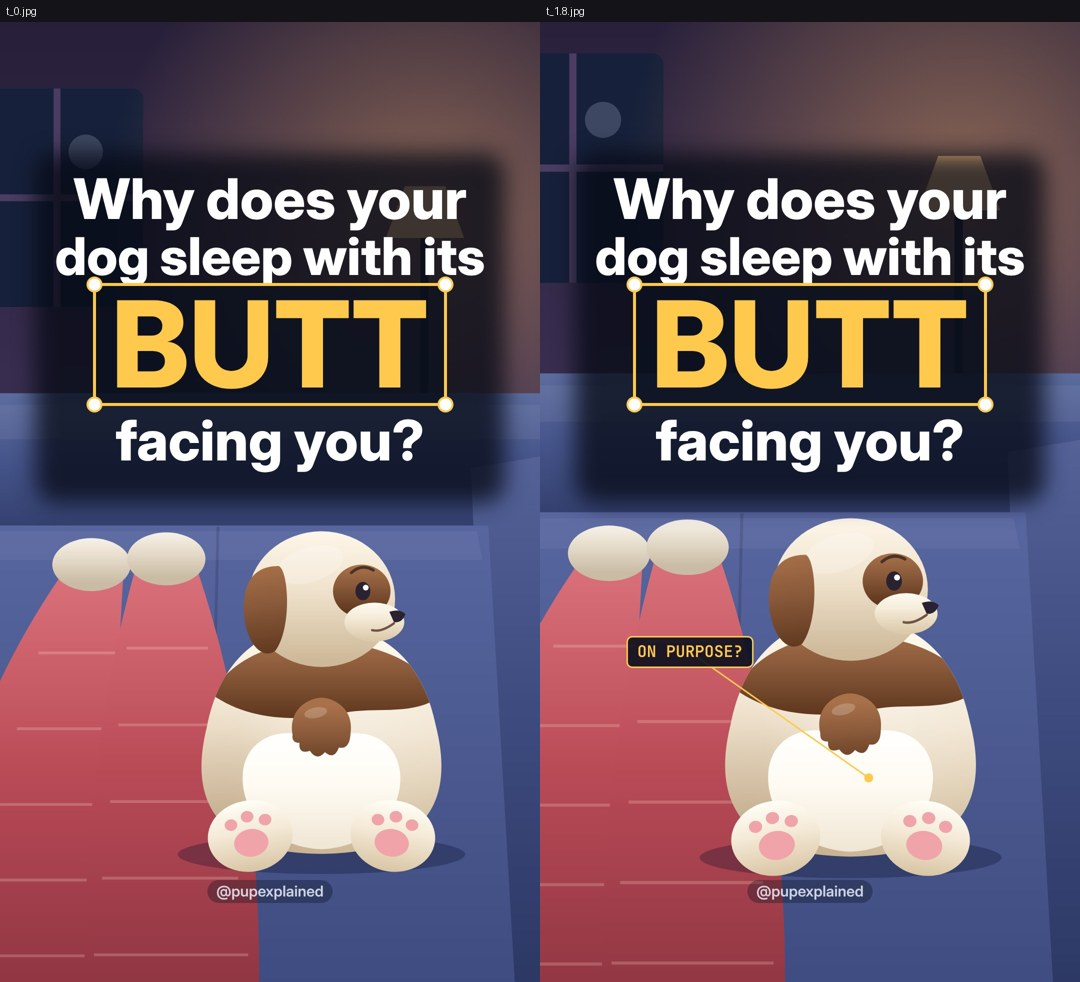
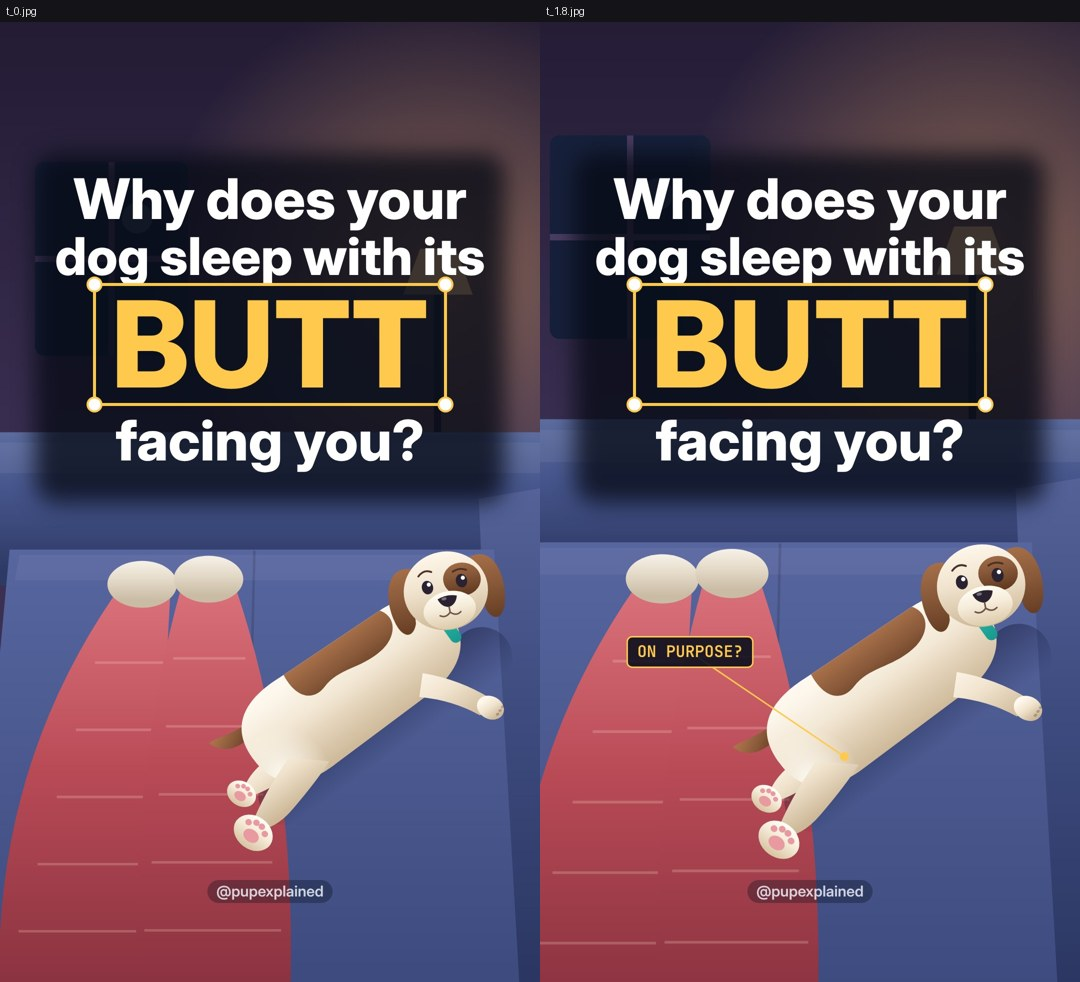
dog-sleep-back: dog redrawn after the user's second reference (stretched out on a diagonal, hind paw splayed back, head turned back to camera); approval frame, films not rebuilt yet
Claude-Session: https://claude.ai/code/session_01GLiioJ71vUy4Fu2rAWkzor

diff --git a/dog-sleep-back/art.js b/dog-sleep-back/art.js
@@ -407,74 +407,56 @@ export function puff(x, y, k) {
   const r = 30 + 60 * k; for (const [dx, dy, s] of [[0, 0, 1], [-.7, .3, .7], [.7, .35, .75], [.2, -.5, .65]]) { ell(x + dx * r, y - 160 * k + dy * r, r * s, r * s * .85); g.fill(); }
   g.restore();
 }
-// the star dog seen from behind, sitting low on the couch (shape language after a classic "dog butt" illustration, drawn in
-// the Pet Cam kit): one chubby rounded body, a white heart-shaped butt patch with a fluffy tail tuft in its notch, two big
-// hind paws sticking out with pink pads, the round back of the head with the floppy brown ears, the brown saddle; the muzzle,
-// the brown eye patch and one eye peek round the right side of the head when it looks back at you.
-// (x, y) = the middle of the body. o = { blink, brow, perk, wag, breath, turn (0 = back of the head, 1 = peeking back) }
+// the star dog lying stretched out on the couch, seen from above (after the user's reference: a long dog lying on a
+// diagonal, back leg splayed behind with the pad showing). Drawn along a local axis (rump at 0, head end at +x, back edge
+// at -y) and rotated by `ang`, so its butt is nearest the camera and its head at the far end, turned back to look at you.
+// (x, y) = the middle of the rump. o = { ang, blink, brow, perk, wag, breath, turn (0..1: 1 = looking back at you) }
 export function rearDog(x, y, o = {}) {
-  const { blink = 0, brow = .5, perk = 0, wag = 0, breath = 0, turn = 1 } = o;
-  const B = BREEDS.cream, k = 1 + breath * .012;
-  g.save(); g.translate(x, y);
-  g.fillStyle = 'rgba(10,14,40,.3)'; ell(0, 182, 250, 34); g.fill();   // flat shadow on the cushion
-  // body: one rounded shape, wider at the hips
-  g.save(); g.scale(k, k);
-  const body = () => { g.beginPath(); g.moveTo(0, -215); g.bezierCurveTo(120, -215, 178, -140, 198, -40); g.bezierCurveTo(228, 80, 192, 178, 0, 180); g.bezierCurveTo(-192, 178, -228, 80, -198, -40); g.bezierCurveTo(-178, -140, -120, -215, 0, -215); g.closePath(); };
-  g.fillStyle = shade(-215, 180, B.coat); body(); g.fill();
-  g.save(); body(); g.clip();
-  const hl = g.createRadialGradient(70, -90, 10, 70, -90, 230); hl.addColorStop(0, 'rgba(255,255,255,.32)'); hl.addColorStop(1, 'rgba(255,255,255,0)'); g.fillStyle = hl; g.fillRect(-240, -220, 480, 400);
-  const sd = g.createRadialGradient(-170, 120, 10, -170, 120, 220); sd.addColorStop(0, 'rgba(140,105,70,.22)'); sd.addColorStop(1, 'rgba(140,105,70,0)'); g.fillStyle = sd; g.fillRect(-240, -220, 480, 400);
-  // the brown saddle across the shoulders
-  g.fillStyle = shade(-200, -60, B.patch);
-  g.beginPath(); g.moveTo(-190, -96); g.bezierCurveTo(-150, -170, -50, -196, 30, -186); g.bezierCurveTo(130, -176, 196, -130, 196, -86); g.bezierCurveTo(150, -60, 90, -74, 40, -64); g.bezierCurveTo(-30, -50, -120, -46, -190, -96); g.closePath(); g.fill();
-  // the white butt patch: a heart, lobes up around the tail, rounded at the bottom
-  g.fillStyle = shade(-40, 180, ['#FFFFFF', '#FFFBF3', '#EFE4D2']);
-  g.beginPath(); g.moveTo(0, -4); g.bezierCurveTo(-30, -44, -128, -40, -136, 40); g.bezierCurveTo(-142, 120, -70, 170, 0, 172); g.bezierCurveTo(70, 170, 142, 120, 136, 40); g.bezierCurveTo(128, -40, 30, -44, 0, -4); g.closePath(); g.fill();
-  g.restore();
-  // the fluffy tail tuft sitting in the heart's notch
-  g.save(); g.translate(0, -26); g.rotate(wag);
-  g.fillStyle = shade(-50, 60, B.patch);
-  g.beginPath(); g.moveTo(-50, 0); g.bezierCurveTo(-58, -46, -20, -64, 0, -64); g.bezierCurveTo(20, -64, 58, -46, 50, 0);
-  g.quadraticCurveTo(48, 26, 30, 22); g.quadraticCurveTo(22, 44, 6, 30); g.quadraticCurveTo(-8, 46, -20, 28); g.quadraticCurveTo(-40, 34, -38, 14); g.quadraticCurveTo(-52, 14, -50, 0); g.closePath(); g.fill();
-  g.fillStyle = 'rgba(255,255,255,.2)'; ell(-10, -38, 20, 9, -.2); g.fill();
-  g.restore();
-  g.restore();
-  // the hind paws sticking out at the bottom, pink pads toward you
-  for (const s of [-1, 1]) {
-    g.save(); g.translate(s * 124, 150); g.rotate(s * .16);
-    g.fillStyle = shade(-60, 60, ['#FFFDF6', '#F4E9D6', '#D9C6A6']); ell(0, 0, 74, 62); g.fill();
-    g.fillStyle = '#F0A3A8'; ell(0, 12, 30, 24); g.fill();
-    for (const [dx, dy] of [[-30, -24], [0, -34], [30, -24]]) { ell(dx, dy, 11, 10); g.fill(); }
-    g.restore();
-  }
-  // the head from behind: round, sitting on the shoulders
-  g.save(); g.translate(0, -262);
-  g.fillStyle = shade(-30, 40, B.coat);
-  // the far (right) ear hangs behind the head when it turns back toward you
-  const ear = (s, dx) => {
-    g.save(); g.translate(s * 104 + dx, -54); g.rotate(s * (.12 - perk * .25));
-    g.fillStyle = shade(-10, 150, B.ear);
-    g.beginPath(); g.moveTo(-30 * s, 0); g.bezierCurveTo(-46 * s, 10, -40 * s, 110, -6 * s, 146); g.bezierCurveTo(22 * s, 160, 44 * s, 120, 40 * s, 70); g.bezierCurveTo(36 * s, 30, 20 * s, -6, -30 * s, 0); g.closePath(); g.fill();
+  const { ang = -.62, sc = .86, blink = 0, brow = .5, perk = 0, wag = 0, breath = 0, turn = 1 } = o;
+  const B = BREEDS.cream, k = 1 + breath * .02;
+  const padSole = (px, py, s, rot) => {   // a paw with its sole toward you
+    g.save(); g.translate(px, py); g.rotate(rot); g.scale(s, s);
+    g.fillStyle = shade(-36, 36, ['#FFFDF6', '#F4E9D6', '#D9C6A6']); ell(0, 0, 50, 40); g.fill();
+    g.fillStyle = '#E89AA0'; ell(0, 9, 20, 15); g.fill();
+    for (const [dx, dy] of [[-24, -14], [-8, -24], [8, -24], [24, -14]]) { ell(dx, dy, 8, 7.5); g.fill(); }
     g.restore();
   };
-  if (turn > .5) ear(1, -40 * turn);
-  g.fillStyle = shade(-130, 110, B.coat); ell(0, 0, 128, 118); g.fill();
-  g.fillStyle = 'rgba(255,255,255,.22)'; ell(-20, -60, 60, 30, -.3); g.fill();
-  if (turn > 0) {   // a three-quarter look back: the face on the right side of the head, inside its outline
-    g.save(); g.beginPath(); ell(0, 0, 128, 118); g.clip();
-    g.fillStyle = shade(-60, 20, B.patch); ell(70, -14, 50 * turn, 46); g.fill();          // the brown eye patch
-    g.restore();
-    g.fillStyle = shade(0, 70, B.muzzleCol); ell(86 + 6 * turn, 40, 46 * turn + 6, 34); g.fill();   // muzzle, swelling past the cheek
-    g.fillStyle = DOG.dark; g.beginPath(); g.moveTo(104 + 14 * turn, 22); g.quadraticCurveTo(122 + 14 * turn, 16, 132 + 14 * turn, 26); g.quadraticCurveTo(126 + 14 * turn, 42, 112 + 14 * turn, 40); g.closePath(); g.fill();   // nose
-    g.strokeStyle = '#6E5444'; g.lineWidth = 4; g.lineCap = 'round'; g.beginPath(); g.moveTo(112 + 14 * turn, 42); g.quadraticCurveTo(104, 58, 88, 54); g.stroke();   // a little smile
-    const ry = 16 * (1 - blink * .9);
-    g.fillStyle = DOG.dark; ell(72, -14, 13, Math.max(2, ry)); g.fill();
-    if (blink < .5) { g.fillStyle = '#FFFFFF'; ell(77, -20, 5, 5); g.fill(); }
-    g.strokeStyle = '#4A3226'; g.lineWidth = 5; const by = 8 * brow;
-    g.beginPath(); g.moveTo(52, -44 - by * .5); g.quadraticCurveTo(70, -58 - by, 90, -48 - by * .6); g.stroke();
-  }
-  ear(-1, 0);
-  if (turn <= .5) ear(1, 0);
+  g.save(); g.translate(x, y); g.rotate(ang); g.scale(sc, sc);
+  // soft shadow along the underside, where the body presses into the cushion
+  const sh = g.createLinearGradient(0, 40, 0, 170); sh.addColorStop(0, 'rgba(10,14,40,.4)'); sh.addColorStop(1, 'rgba(10,14,40,0)');
+  g.fillStyle = sh; g.beginPath(); g.roundRect(-180, 40, 680, 140, 70); g.fill();
+  // far hind leg, mostly behind the rump
+  g.fillStyle = shade(-20, 120, B.coat); g.beginPath(); g.moveTo(-40, 20); g.quadraticCurveTo(-150, 0, -200, 50); g.quadraticCurveTo(-160, 80, -40, 70); g.closePath(); g.fill();
+  padSole(-196, 44, .7, 1.2);
+  // the tail: a short brown curl off the back of the rump
+  g.save(); g.translate(-112, -56); g.rotate(-.5 + wag);
+  g.fillStyle = shade(-60, 20, B.patch); g.beginPath(); g.moveTo(10, 10); g.bezierCurveTo(-30, 0, -60, -30, -50, -70); g.bezierCurveTo(-30, -60, -10, -30, 30, -10); g.closePath(); g.fill();
+  g.restore();
+  // the body: a long rounded loaf, rump end and chest end, breathing
+  g.save(); g.scale(1, k);
+  const body = () => { g.beginPath(); g.moveTo(-128, 0); g.bezierCurveTo(-132, -100, -60, -126, 30, -120); g.lineTo(300, -112); g.bezierCurveTo(380, -110, 436, -70, 430, -6); g.bezierCurveTo(426, 60, 380, 100, 300, 106); g.lineTo(20, 112); g.bezierCurveTo(-70, 116, -126, 80, -128, 0); g.closePath(); };
+  g.fillStyle = shade(-120, 112, B.coat); body(); g.fill();
+  g.save(); body(); g.clip();
+  const hl = g.createLinearGradient(0, -120, 0, 30); hl.addColorStop(0, 'rgba(255,255,255,.3)'); hl.addColorStop(1, 'rgba(255,255,255,0)'); g.fillStyle = hl; g.fillRect(-140, -130, 580, 160);
+  // the brown saddle along the back
+  g.fillStyle = shade(-120, 0, B.patch);
+  g.beginPath(); g.moveTo(40, -124); g.lineTo(300, -116); g.bezierCurveTo(330, -80, 300, -40, 250, -36); g.bezierCurveTo(190, -30, 150, -60, 100, -44); g.bezierCurveTo(60, -32, 30, -60, 40, -124); g.closePath(); g.fill();
+  // lighter, fluffy "trousers" at the back of the rump
+  const tr = g.createRadialGradient(-96, 64, 6, -96, 64, 110); tr.addColorStop(0, 'rgba(255,253,246,.9)'); tr.addColorStop(1, 'rgba(255,253,246,0)'); g.fillStyle = tr; g.fillRect(-140, -40, 220, 160);
+  g.restore();
+  g.restore();
+  // near hind leg, splayed straight back toward the camera, sole up
+  g.fillStyle = shade(-10, 140, B.coat); g.beginPath(); g.moveTo(-60, 40); g.quadraticCurveTo(-150, 70, -230, 122); g.quadraticCurveTo(-190, 158, -120, 140); g.quadraticCurveTo(-40, 120, 10, 100); g.closePath(); g.fill();
+  padSole(-226, 132, .95, 1.25);
+  // near front leg, reaching forward under the chest
+  g.fillStyle = shade(40, 220, B.coat); g.beginPath(); g.moveTo(300, 60); g.quadraticCurveTo(360, 120, 392, 196); g.quadraticCurveTo(380, 226, 350, 214); g.quadraticCurveTo(320, 150, 262, 100); g.closePath(); g.fill();
+  g.fillStyle = shade(190, 240, B.coat); ell(380, 214, 32, 26, 1.1); g.fill();
+  g.fillStyle = 'rgba(60,40,30,.28)'; for (const d of [-12, 0, 12]) { ell(394 + d * .8, 232 - d * .3, 4, 3); g.fill(); }
+  // the collar at the neck
+  g.fillStyle = shade(-80, 80, ['#3DD6C6', '#21B3A6', '#178A80']); g.beginPath(); g.roundRect(396, -70, 26, 120, 13); g.fill();
+  // the head at the far end, counter-rotated so the face stays upright, turned back to look at you
+  g.save(); g.translate(452, -62); g.rotate(-ang - .2 + .35 * (1 - turn)); g.scale(.86, .86);
+  frontHead('cream', { blink, perk, brow });
   g.restore();
   g.restore();
 }

diff --git a/dog-sleep-back/film.js b/dog-sleep-back/film.js
@@ -80,8 +80,8 @@ const breathAt = t => (Math.sin(t * 2.2) + 1) / 2;
 // ---------- the home scene (the owner's seat on the couch) ----------
 let PIN = [];
 const MYTH = [320, 1180];   // where the myth tag sits on screen (left, over your legs, clear of the dog's face)
-const RUMP = [700, 1450], CONTACT = [512, 1490], HEAD = [790, 1190];
-const F1 = [1.15, 657, 1413];   // the frame-1 shot: the rump against your leg, the face looking back, below the hook
+const RUMP = [610, 1410], CONTACT = [532, 1470], HEAD = [892, 1142];
+const F1 = [1.02, 600, 1300];   // the frame-1 shot: the rump against your leg, the face looking back, below the hook
 let CAM = [1, 0, 0];
 const camAt = (z, fx, fy) => [z, Math.min(0, Math.max(W - W * z, W / 2 - fx * z)), Math.min(0, Math.max(H - H * z, fy - fy * z))];
 const toScreen = (x, y) => [x * CAM[0] + CAM[1], y * CAM[0] + CAM[2]];
